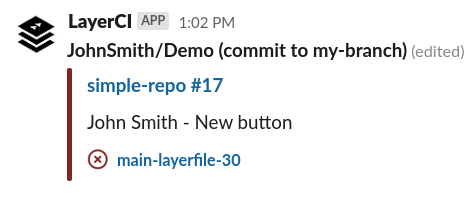
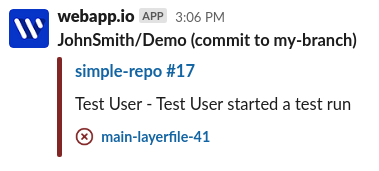
Update slack docs for webapp.io

Changed region(s): [[0.0, 0.0292, 0.9868, 0.2924], [0.1161, 0.3216, 0.9288, 0.9357]]

diff --git a/integrations/slack.md b/integrations/slack.md
@@ -7,7 +7,7 @@ Integrate webapp.io into your slack workspace to receive real time updates on CI
 ## Adding webapp.io to your Slack
 
 1. Navigate to your organization's settings page at **Settings > Organization**
-2. Under **Integrations** click the **Add webapp.io to Slack** button 
+2. Under **Integrations** click the **Add webapp.io to Slack** button
 3. Allow **webapp.io** to be added to your Slack workspace
 
 ## Subscribing to Notifications in Slack
@@ -27,7 +27,6 @@ In real time the message will update on the status of all Layerfile runners for 
 
 ![Slack App Layerfile Success](/docs/resources/slack-app-success.png)
 
-To subscribe to notifications enter `/layerci subscribe [repository owner]/[repository name]` in the public Slack channel of your choice.
+To subscribe to notifications enter `/webapp.io subscibe [repository owner]/[repository name]` in the public Slack channel of your choice.
 
-To unsubscribe to notifications enter `/layerci unsubscribe [repository owner]/[repository name]`.
-
+To unsubscribe to notifications enter `/webapp.io unsubscibe [repository owner]/[repository name]`.
